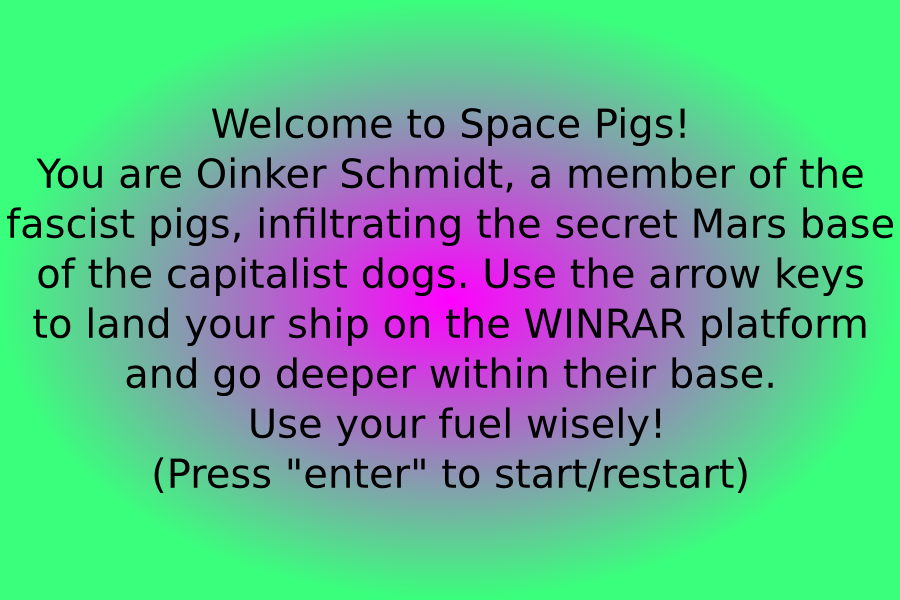
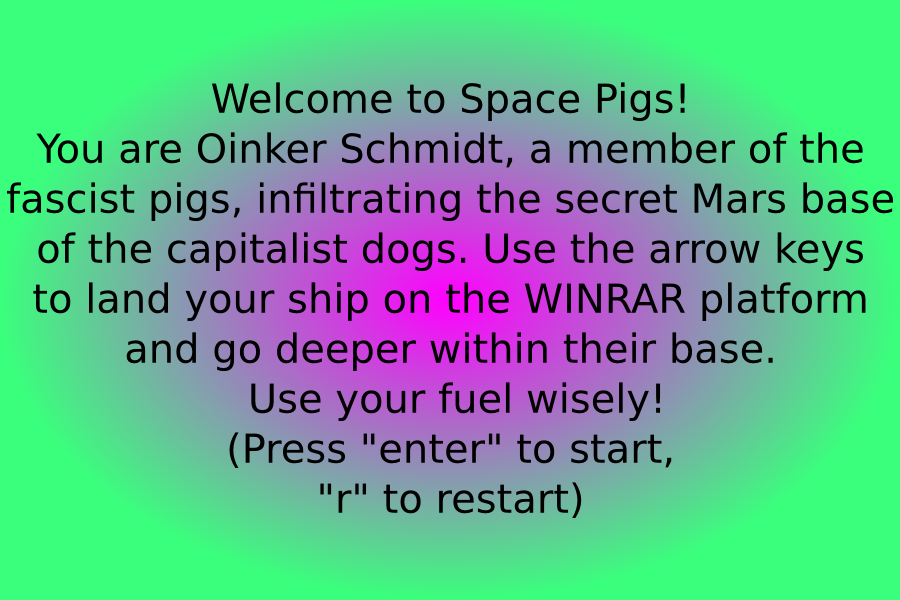
Add ability to restart whenever

Changed region(s): [[0.0, 0.12, 0.9956, 0.87]]

diff --git a/GameWorld.java b/GameWorld.java
@@ -46,7 +46,7 @@ public class GameWorld extends World
     @Override
     public void act()
     {
-        if (gameOver && Greenfoot.isKeyDown("enter")) {
+        if ((gameOver && Greenfoot.isKeyDown("enter")) || Greenfoot.isKeyDown("r")) {
             Greenfoot.setWorld(new GameWorld());
             Greenfoot.start();
         }
